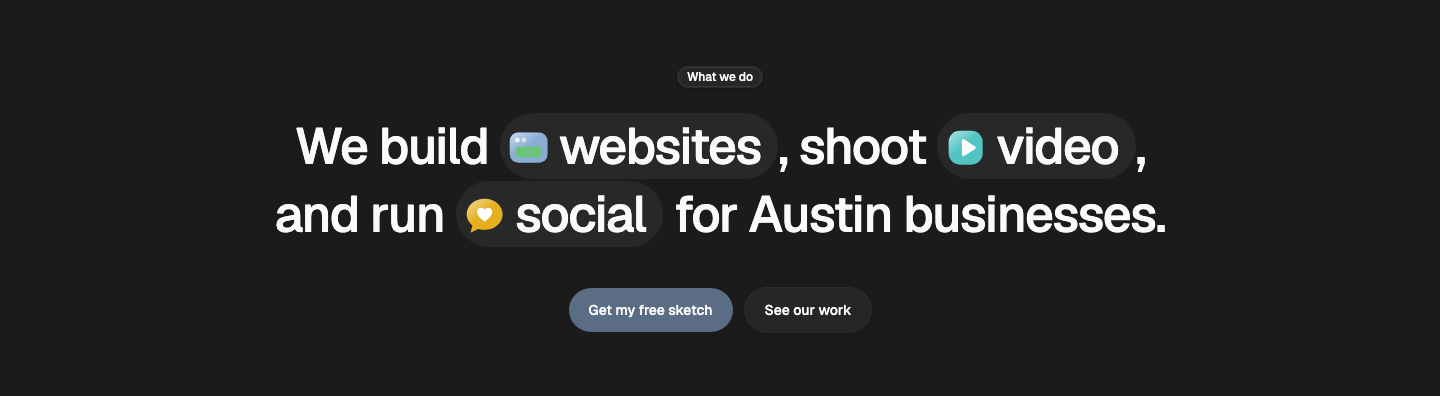
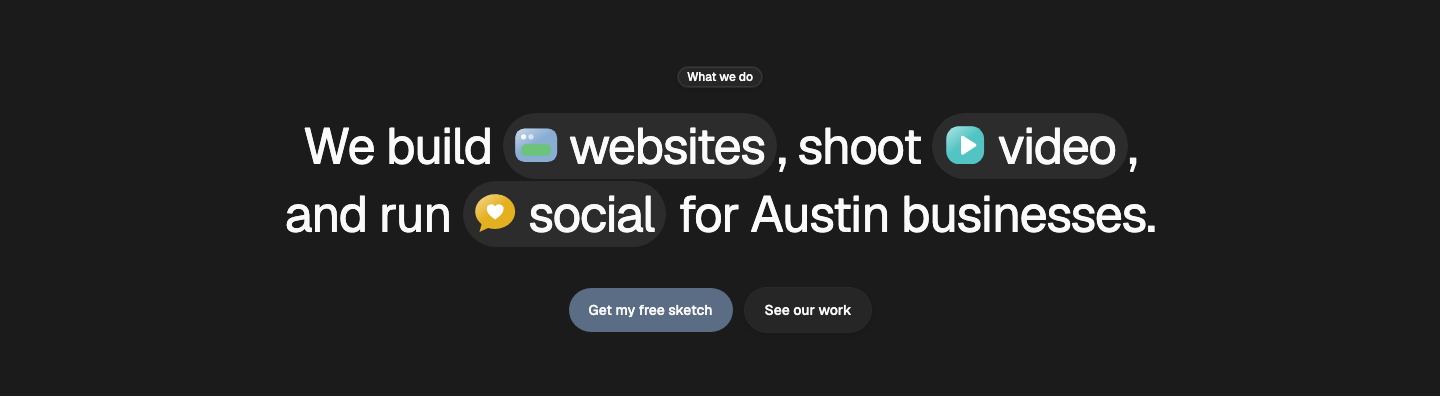
Statement — Inline Pills: Product Designer's review — long words break (no sideways scroll at 390), picture held in the pill's padding so it never parts from its word, lighter weight and fill (4% / 8% dark), 1em pictures, looser phone leading, capped stagger, print shows pictures, README pill guidan

Changed region(s): [[0.1875, 0.4836, 0.8125, 0.6045], [0.1875, 0.3023, 0.8125, 0.4232]]

diff --git a/patterns/statement/inline-pills/StatementInlinePills.tsx b/patterns/statement/inline-pills/StatementInlinePills.tsx
@@ -36,23 +36,29 @@ const rootClasses = "group/statement relative w-full";
 const gridClasses = "grid-page !pt-12 !pb-12 md:!pt-16 md:!pb-16";
 const innerClasses = "col-span-full flex flex-col items-center text-center";
 /** WMDS display type, kept to about 18em so the sentence sets in 2–3 lines with room for the pills. */
-const sentenceClasses = "max-w-[18em] text-balance type-display-2 font-medium leading-[1.35] tracking-tight text-fg";
+/** Long words break rather than scroll the page sideways; a looser line gap on phones keeps stacked pills apart. */
+const sentenceClasses =
+  "min-w-0 max-w-[18em] text-balance type-display-2 font-normal leading-[1.4] tracking-tight text-fg [overflow-wrap:anywhere] md:leading-[1.35]";
 const actionsClasses = "mt-10 flex flex-wrap items-center justify-center gap-3";
 /**
  * The pill: an inline run (not inline-flex), so it sits on the sentence's baseline and punctuation right
- * after it never wraps away. Fill is the text colour at 6%, so it shows on any background in both themes.
- * Sized in em, so it scales with the sentence; `box-decoration-break: clone` keeps the shape if it wraps.
+ * after it never wraps away. Fill is the text colour at 4% (8% in dark, where 4% disappears). Sized in em,
+ * so it scales with the sentence. The picture sits in the left padding, out of the text flow, so it can
+ * never be left at the end of a line without its word; `box-decoration-break: clone` keeps the shape if
+ * a pill wraps.
  */
 const pillClasses =
-  "rounded-full bg-[color-mix(in_srgb,var(--color-fg)_6%,transparent)] py-0 pl-[0.12em] pr-[0.34em] " +
+  "relative rounded-full bg-[color-mix(in_srgb,var(--color-fg)_4%,transparent)] py-0 pl-[1.3em] pr-[0.24em] " +
+  "[[data-theme=dark]_&]:bg-[color-mix(in_srgb,var(--color-fg)_8%,transparent)] " +
   "[box-decoration-break:clone] [-webkit-box-decoration-break:clone]";
 /**
- * The picture: 0.9em square, dropped to sit centred on the x-height. Before the pop-in runs it's hidden
- * (so it doesn't flash, then animate); on hover it tilts a little, where motion is allowed.
+ * The picture: 1em square, a touch proud of the pill, on its first line (an inline box that wraps spans two lines, so 50% would float between them). Hidden before the
+ * pop-in runs (so it doesn't flash, then animate), never in print; on hover it tilts a little, where
+ * motion is allowed.
  */
 const mediaClasses =
-  "mr-[0.16em] inline-block size-[0.9em] align-[-0.12em] [&>img]:size-full [&>img]:object-contain [&>svg]:block [&>svg]:size-full " +
-  "group-data-[pills=pending]/statement:scale-0 group-data-[pills=pending]/statement:opacity-0 " +
+  "absolute top-[0.14em] left-[0.15em] size-[1em] [&>img]:size-full [&>img]:object-contain [&>svg]:block [&>svg]:size-full " +
+  "group-data-[pills=pending]/statement:scale-0 group-data-[pills=pending]/statement:opacity-0 print:!scale-100 print:!opacity-100 " +
   "motion-safe:transition-transform motion-safe:duration-[var(--duration-fast)] motion-safe:ease-[var(--ease-standard)] " +
   "motion-safe:group-hover/pill:-rotate-8 motion-safe:group-hover/pill:scale-105";
 
@@ -82,7 +88,7 @@ function usePillsPopIn(animate: boolean) {
 
   // Hide before the first paint, so the pictures never flash in and then animate.
   useLayoutEffect(() => {
-    if (animate && !matchMedia("(prefers-reduced-motion: reduce)").matches) setState("pending");
+    if (animate && "IntersectionObserver" in window && !matchMedia("(prefers-reduced-motion: reduce)").matches) setState("pending");
   }, [animate]);
 
   useEffect(() => {
@@ -93,7 +99,9 @@ function usePillsPopIn(animate: boolean) {
         if (!entry.isIntersecting) return;
         observer.disconnect();
         const duration = token("--duration-medium-max", 550);
-        const stagger = token("--motion-beat", 160);
+        // One beat apart, but the whole run stays under about half a second however many pills there are.
+        const count = root.querySelectorAll("[data-pill-media]").length;
+        const stagger = Math.min(token("--motion-beat", 160), 480 / Math.max(1, count - 1));
         const easing = getComputedStyle(document.documentElement).getPropertyValue("--ease-standard").trim() || "cubic-bezier(0.24, 1, 0.4, 1)";
         const media = [...root.querySelectorAll<HTMLElement>("[data-pill-media]")];
         // fill: "backwards" holds each picture hidden through its delay, after the pending state lifts.

diff --git a/patterns/statement/inline-pills/README.md b/patterns/statement/inline-pills/README.md
@@ -30,7 +30,7 @@ import { InlinePill, StatementInlinePills } from "./StatementInlinePills";
 
 | Prop | Kind | Notes |
 |---|---|---|
-| `children` | ReactNode | The sentence: about 10–18 words, with 2–4 key words wrapped in `<InlinePill>`. Keep punctuation outside the pills. WMDS `type-display-2`, about 18em wide, so it sets in 2–3 lines |
+| `children` | ReactNode | The sentence: about 10–18 words, with 2–3 key words wrapped in `<InlinePill>`, one or two short words each (a long phrase splits into two half-pills across lines; at 4 or more pills it reads as a list). Keep punctuation outside the pills. WMDS `type-display-2`, about 18em wide, so it sets in 2–3 lines |
 | `eyebrow` | slot, optional | A short line above the sentence, usually a WMDS `<Badge>` |
 | `actions` | slot, optional | The CTA row under the sentence: one or two WMDS `<Button>`s |
 | `as` | `"h2"` (default) or `"h1"` | `h1` when the statement is the page's hero; `h2` anywhere else |
@@ -40,7 +40,7 @@ import { InlinePill, StatementInlinePills } from "./StatementInlinePills";
 
 ## Motion
 
-- **What:** each picture scales from 0 with a -24° tilt to 1.14 and 6°, then settles at 1 and 0°; pictures follow each other one WMDS beat apart (`--motion-beat`, 160ms), over `--duration-medium-max` (550ms) on `--ease-standard`.
+- **What:** each picture scales from 0 with a -24° tilt to 1.14 and 6°, then settles at 1 and 0°; pictures follow each other one WMDS beat apart (`--motion-beat`, 160ms; closer together past 4 pills, so the run stays under about half a second), over `--duration-medium-max` (550ms) on `--ease-standard`.
 - **How:** the Web Animations API (`element.animate`), no library, transform and opacity only. The pictures are hidden before the first paint, so they never flash in and then animate. Runs once.
 - **Hover:** a picture tilts a little (-8°) when its pill is hovered, where motion is allowed.
 - **Reduced motion:** no pop-in and no tilt; the pictures are simply there.
@@ -49,8 +49,8 @@ import { InlinePill, StatementInlinePills } from "./StatementInlinePills";
 ## Knobs
 
 - `--text-display-2-size`: the sentence uses WMDS `type-display-2`.
-- The pill's fill is the text colour (`--color-fg`) at 6%, so it shows on any background and in both themes.
-- The pill's shape is in `pillClasses` (em-based padding, fully round); the picture is 0.9em square in `mediaClasses`.
+- The pill's fill is the text colour (`--color-fg`) at 4% (8% in dark), so it shows on any background and in both themes.
+- The pill's shape is in `pillClasses` (em-based padding, fully round); the picture is 1em square in `mediaClasses`, sitting in the pill's left padding (out of the text flow, so it never parts from its word at a line break).
 
 ## Adapt it
 
